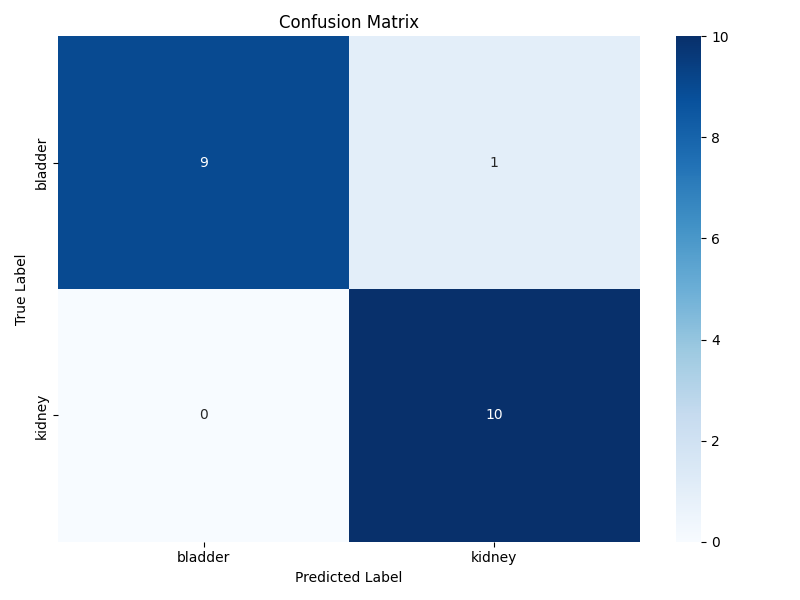
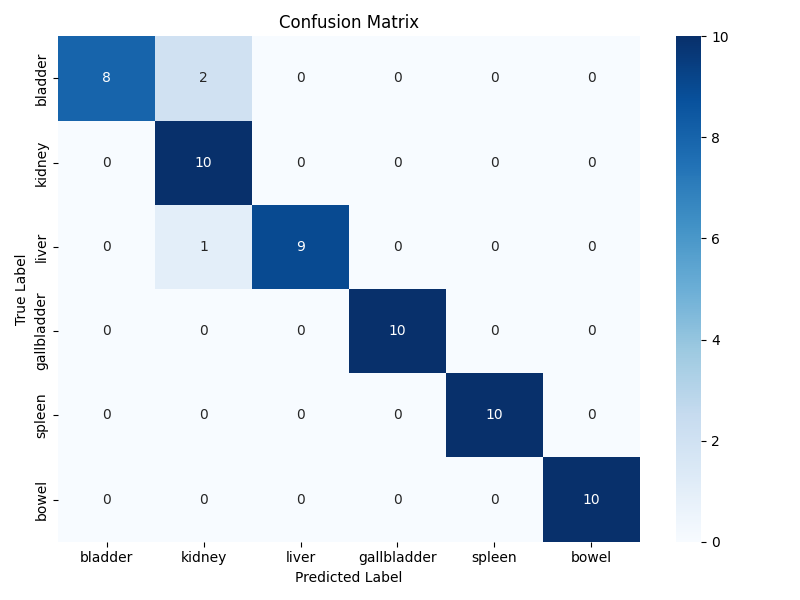
feature: added more classes

diff --git a/demo_prediction.py b/demo_prediction.py
@@ -7,7 +7,7 @@ from ultrasound_classifier import ShallowCNN, HandcraftedFeatureExtractor
 import os
 
 
-def predict_single_image(model_path, image_path, class_names=['bladder', 'kidney']):
+def predict_single_image(model_path, image_path, class_names):
     """
     Predict the class of a single ultrasound image
     
@@ -125,7 +125,7 @@ def demo_predictions():
     print("\nDemo complete!")
 
 
-def predict_new_image(image_path):
+def predict_new_image(image_path, class_names):
     """
     Predict the class of a new image provided by the user
     
@@ -146,7 +146,7 @@ def predict_new_image(image_path):
     print(f"Analyzing image: {image_path}")
     
     # Make prediction
-    predicted_class, confidence = predict_single_image(model_path, image_path)
+    predicted_class, confidence = predict_single_image(model_path, image_path, class_names)
     
     print(f"Predicted organ: {predicted_class}")
     print(f"Confidence: {confidence:.4f} ({confidence*100:.1f}%)")
@@ -158,11 +158,13 @@ def predict_new_image(image_path):
 
 if __name__ == "__main__":
     import sys
+
+    class_names = ['bladder', 'kidney', 'liver', 'gallbladder', 'spleen', 'bowel']
     
     if len(sys.argv) > 1:
         # If an image path is provided as argument, predict that image
         image_path = sys.argv[1]
-        predict_new_image(image_path)
+        predict_new_image(image_path, class_names)
     else:
         # Otherwise, run the demo on test images
         demo_predictions() 

diff --git a/ultrasound_classifier.py b/ultrasound_classifier.py
@@ -413,6 +413,8 @@ def plot_training_history(train_losses, val_losses, val_accuracies):
 
 
 def main():
+
+    class_names = ['bladder', 'kidney', 'liver', 'gallbladder', 'spleen', 'bowel']
     # Set random seeds for reproducibility
     np.random.seed(42)
     torch.manual_seed(42)
@@ -420,7 +422,7 @@ def main():
     # Load data
     print("Loading data...")
     data_dir = './datasets/img'
-    X_train_paths, y_train, X_test_paths, y_test = load_data(data_dir)
+    X_train_paths, y_train, X_test_paths, y_test = load_data(data_dir, classes=class_names)
     
     # Create validation set from training data
     X_train_paths, X_val_paths, y_train, y_val = train_test_split(
@@ -456,7 +458,7 @@ def main():
     
     # Initialize model
     print("\nInitializing model...")
-    model = ShallowCNN(num_classes=2)
+    model = ShallowCNN(num_classes=len(class_names))
     
     # Train model
     print("\nTraining model...")
@@ -469,7 +471,7 @@ def main():
     
     # Evaluate on test set
     print("\nEvaluating on test set...")
-    class_names = ['bladder', 'kidney']
+    class_names = class_names
     evaluate_model(model, test_loader, class_names)
     
     # Save model
